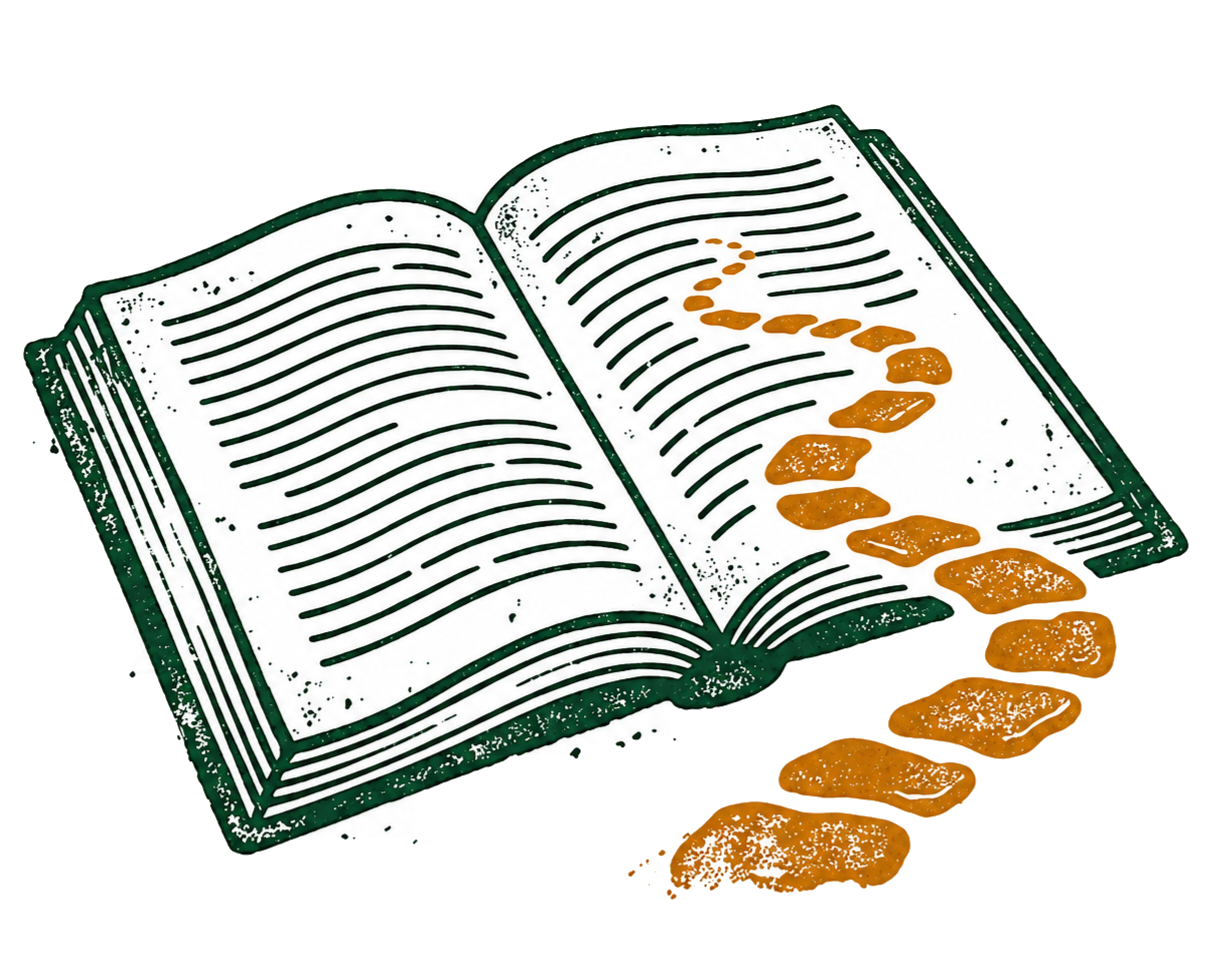
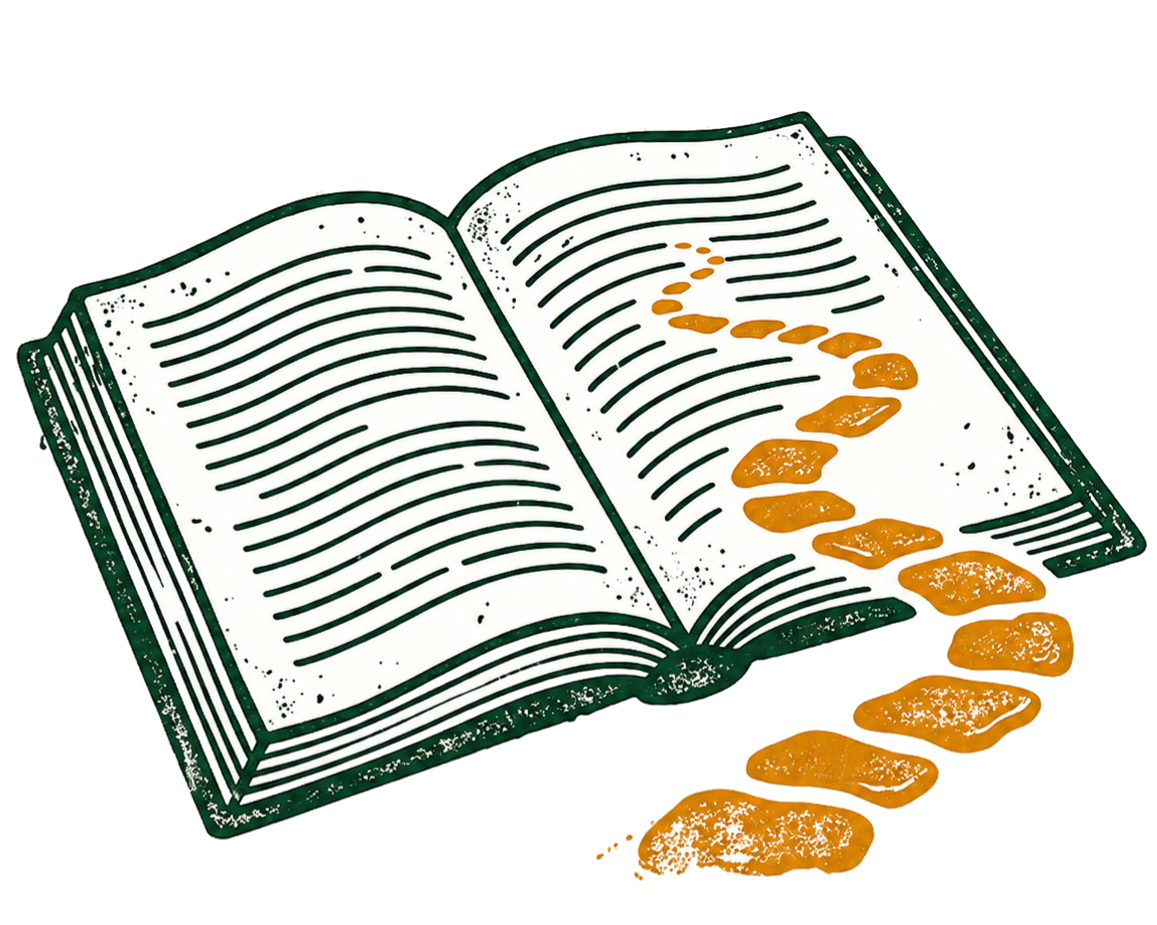
Reprend la découpe de transparence de landing1 à partir de la source fournie et corrige l'artefact restant au niveau de l'échancrure entre les deux pages (#38)
Claude-Session: https://claude.ai/code/session_01TnSqXWDCCvZ66C1JNHoB8C

diff --git a/templates/landing.html b/templates/landing.html
@@ -15,7 +15,7 @@
           <div class="landing-track" data-landing-track>
             <article class="landing-slide landing-slide--book is-active" data-landing-slide>
               <div class="landing-slide-image">
-                <img src="{{ url_for('static', filename='images/landing1.png') }}?v=7" alt="" draggable="false">
+                <img src="{{ url_for('static', filename='images/landing1.png') }}?v=8" alt="" draggable="false">
               </div>
               <div class="landing-slide-copy">
                 <h2>לימוד</h2>
